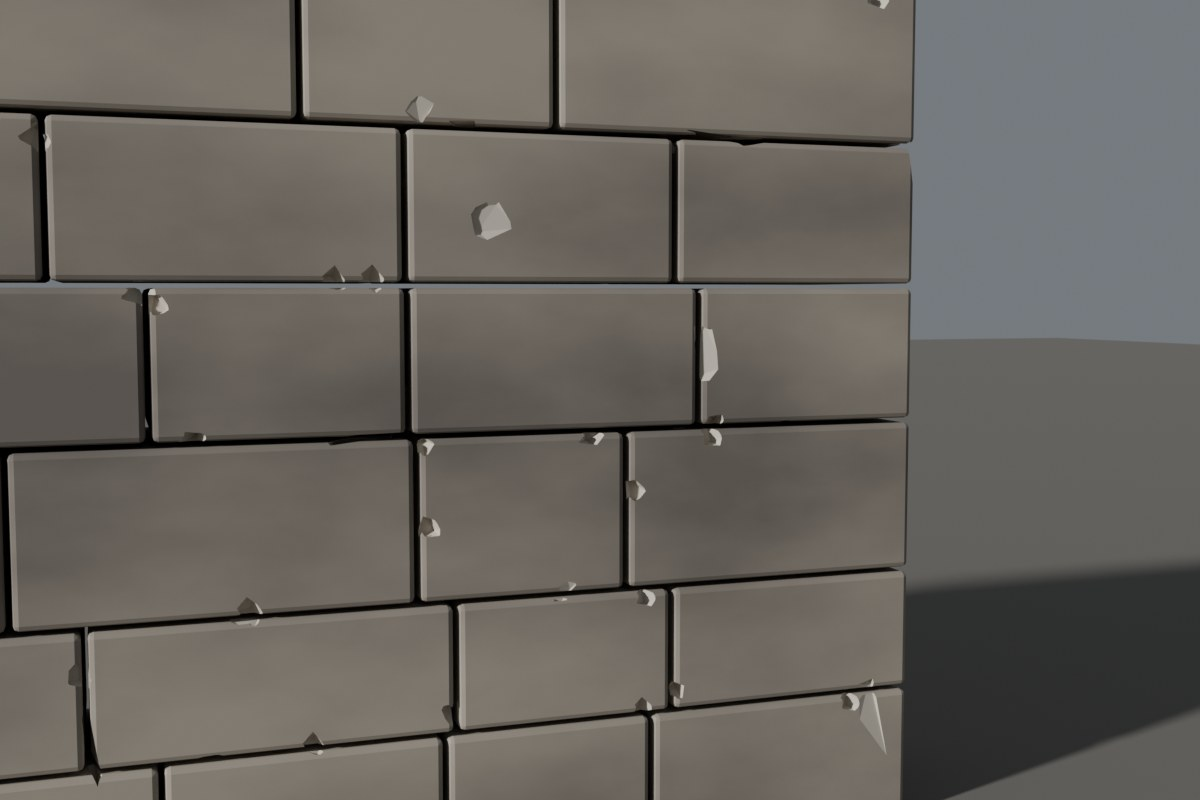
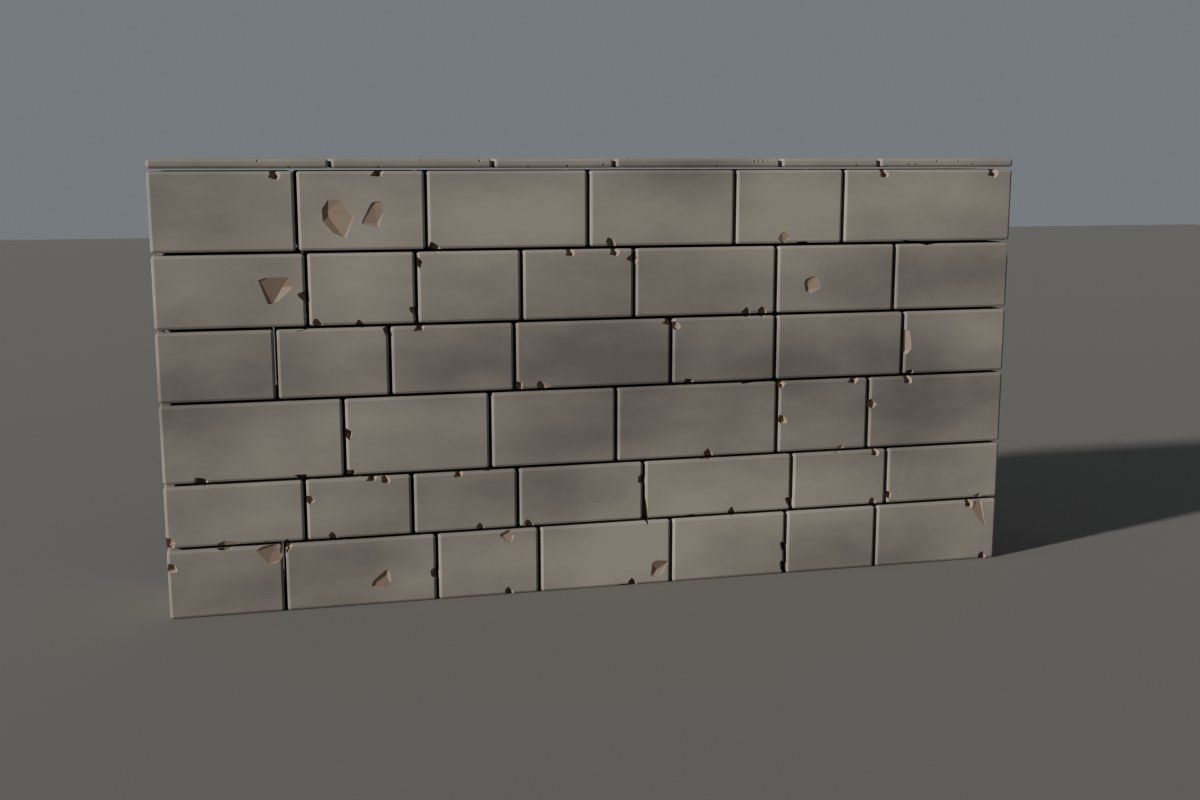
Knapwell page: game card shows the whole castle wall module, step panel image re-captured with the UV line

diff --git a/knapwell/index.html b/knapwell/index.html
@@ -135,7 +135,7 @@
   </figure>
   <figure>
     <div class="inpanel">
-      <a class="panel" href="img/inpanel2-step-panel.png"><img src="img/inpanel2-step-panel.png" alt="The Mask &amp; Material section: Protect Selected Faces, Paint Mask, Clear Mask, the line '1 face protected: it and the edges around it stay clean.' and a Select Protected button" width="381" height="222" loading="lazy"></a>
+      <a class="panel" href="img/inpanel2-step-panel.png"><img src="img/inpanel2-step-panel.png" alt="The Mask &amp; Material section: Protect Selected Faces, Paint Mask, Clear Mask, the line '1 face protected: it and the edges around it stay clean.', a Select Protected button, the Break material field and the line 'No UV map: Apply adds &quot;UVMap&quot;.'" width="381" height="350" loading="lazy"></a>
       <a class="view" href="img/inpanel2-step-view.jpg"><img src="img/inpanel2-step-view.jpg" alt="A long stone step: its top face and the edges around it have no chips; the bottom edges are chipped" width="910" height="350" loading="lazy"></a>
     </div>
     <figcaption>One face protected on a stone step: that face and the edges around it stay clean; the bottom edges keep their chips.</figcaption>
@@ -144,8 +144,8 @@
   <h2>Made for</h2>
   <div class="uses">
     <div>
-      <img src="img/game-wall-4x.jpg" alt="A close view of a rendered castle wall module of separate stone blocks in low sun, applied with Target faces for a game: pale fresh chips at block corners and edges" width="1200" height="800" loading="lazy">
-      <p><strong>Game kits.</strong> Each block of a wall module stays a closed part. Target faces reduces the result for the engine: our 46-block castle wall (2,484 faces) at Target 9,936 came out at 9,710 faces, 25,316 triangles, 560 chips on Blender 5.2 (the picture is a close view of a few of its chips); on 4.5 the counts differ a little (<a href="tested.html#tested">how we tested</a>).</p>
+      <img src="img/game-wall-4x.jpg" alt="A rendered castle wall module of 46 separate stone blocks, applied with Target faces for a game: small darker chips at the joints and a few larger ones on the block faces" width="1200" height="800" loading="lazy">
+      <p><strong>Game kits.</strong> Each block of a wall module stays a closed part. Target faces reduces the result for the engine: our 46-block castle wall (2,484 faces) at Target 9,936 came out at 9,710 faces, 25,316 triangles, 560 chips on Blender 5.2 (the gallery picture shows the whole module); on 4.5 the counts differ a little (<a href="tested.html#tested">how we tested</a>).</p>
     </div>
     <div>
       <img src="img/hero-facade.jpg" alt="A rendered brick facade with a sandstone door surround and granite steps, all chipped; Blender Studio's Rain stands in the doorway" width="1600" height="800" loading="lazy">

diff --git a/knapwell/tested.html b/knapwell/tested.html
@@ -82,7 +82,7 @@
     <tr><td>Ruined</td><td>0.38 s</td><td>0.53 s</td><td>1.71 s</td></tr>
   </table>
   </div>
-  <p><strong>Game asset numbers</strong> for our 46-block castle wall (2,484 faces, 4,968 triangles), Ruined, seed 7, measured on Blender 5.2.3 with Knapwell 1.4.1 and again on Blender 5.2.4 with Knapwell 1.5.0 (the same counts; the code that makes the geometry is unchanged in 1.5.1). On Blender 4.5.16 the boolean cuts differ a little: 3,005, 4,893, 9,838 and 63,888 faces, with 89, 214, 624 and 2,048 chips for the targets 3,000, 4,968, 9,936 and 0. Target faces counts Blender faces; a game engine counts triangles, and the Apply report gives both.</p>
+  <p><strong>Game asset numbers</strong> for our 46-block castle wall (2,484 faces, 4,968 triangles), Ruined, seed 7, measured on Blender 5.2.3 with Knapwell 1.4.1 and again on Blender 5.2.4 with Knapwell 1.5.0 and 1.5.1 (the same counts). On Blender 4.5.16 the boolean cuts differ a little: 3,005, 4,893, 9,838 and 63,888 faces, with 89, 214, 624 and 2,048 chips for the targets 3,000, 4,968, 9,936 and 0. Target faces counts Blender faces; a game engine counts triangles, and the Apply report gives both.</p>
   <div class="scroll-x">
   <table>
     <tr><th>Target faces</th><th>Faces after Apply</th><th>Triangles</th><th>Chips</th></tr>
